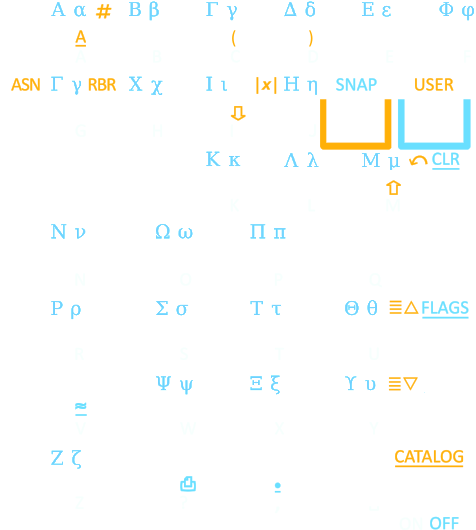
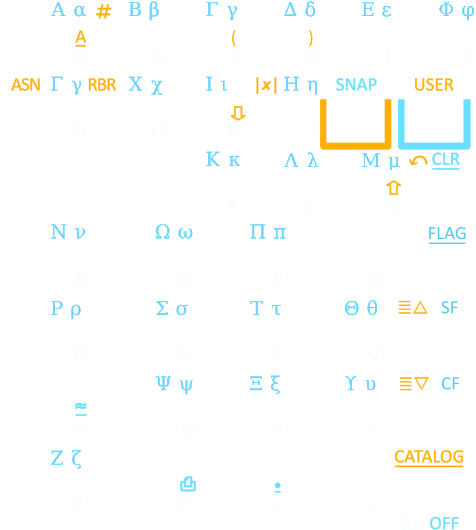
Update AIM keyboard in accordance with the normal-mode one

diff --git a/src/wp43s/assign.c b/src/wp43s/assign.c
@@ -55,19 +55,19 @@ TO_QSPI const calcKey_t kbd_std[37] = {
  {52,   ITM_7,           ITM_NULL,        ITM_NULL,        ITM_7,           ITM_O,             ITM_7,                 ITM_OMEGA,     ITM_7        },
  {53,   ITM_8,           ITM_NULL,       -MNU_MODE,        ITM_8,           ITM_P,             ITM_8,                 ITM_PI,        ITM_8        },
  {54,   ITM_9,           ITM_LBL,         ITM_RTN,         ITM_9,           ITM_Q,             ITM_9,                 ITM_NULL,      ITM_9        },
- {55,   ITM_XEQ,         ITM_GTO,        -MNU_FLAGS,       ITM_NULL,        ITM_NULL,          ITM_NULL,              ITM_NULL,      ITM_NULL     },
+ {55,   ITM_XEQ,         ITM_GTO,        -MNU_FLAGS,       ITM_NULL,        ITM_NULL,          ITM_NULL,             -MNU_FLAGS,     ITM_NULL     },
 
  {61,   ITM_MULT,        ITM_XFACT,      -MNU_PROB,        ITM_CROSS,       ITM_R,             ITM_PROD_SIGN,         ITM_RHO,       ITM_MULT     },
  {62,   ITM_4,          -MNU_SUMS,       -MNU_STAT,        ITM_4,           ITM_S,             ITM_4,                 ITM_SIGMA,     ITM_4        },
  {63,   ITM_5,           ITM_toREC,       ITM_toPOL,       ITM_5,           ITM_T,             ITM_5,                 ITM_TAU,       ITM_5        },
  {64,   ITM_6,           ITM_TIMER,      -MNU_CLK,         ITM_6,           ITM_U,             ITM_6,                 ITM_THETA,     ITM_6        },
- {65,   ITM_UP,          ITM_BST,         ITM_SF,          ITM_UP,          ITM_UP,            ITM_BST,              -MNU_FLAGS,     ITM_UP       },
+ {65,   ITM_UP,          ITM_BST,         ITM_SF,          ITM_UP,          ITM_UP,            ITM_BST,               ITM_SF,        ITM_UP       },
 
  {71,   ITM_SUB,        -MNU_INTS,       -MNU_PARTS,       ITM_MINUS,       ITM_V,             ITM_MINUS,            -MNU_ALPHAMATH, ITM_SUB      },
  {72,   ITM_1,          -MNU_ADV,        -MNU_EQN,         ITM_1,           ITM_W,             ITM_1,                 ITM_PSI,       ITM_1        },
  {73,   ITM_2,          -MNU_MATX,       -MNU_XFN,         ITM_2,           ITM_X,             ITM_2,                 ITM_XI,        ITM_2        },
  {74,   ITM_3,           ITM_CONSTpi,    -MNU_CONST,       ITM_3,           ITM_Y,             ITM_3,                 ITM_UPSILON,   ITM_3        },
- {75,   ITM_DOWN,        ITM_SST,         ITM_CF,          ITM_DOWN,        ITM_DOWN,          ITM_SST,               ITM_NULL,      ITM_DOWN     },
+ {75,   ITM_DOWN,        ITM_SST,         ITM_CF,          ITM_DOWN,        ITM_DOWN,          ITM_SST,               ITM_CF,        ITM_DOWN     },
 
  {81,   ITM_ADD,        -MNU_LOOP,       -MNU_TEST,        ITM_PLUS,        ITM_Z,             ITM_PLUS,              ITM_ZETA,      ITM_ADD      },
  {82,   ITM_0,          -MNU_IO,         -MNU_PRINT,       ITM_0,           ITM_QUESTION_MARK, ITM_0,                 ITM_PRINTER,   ITM_0        },
